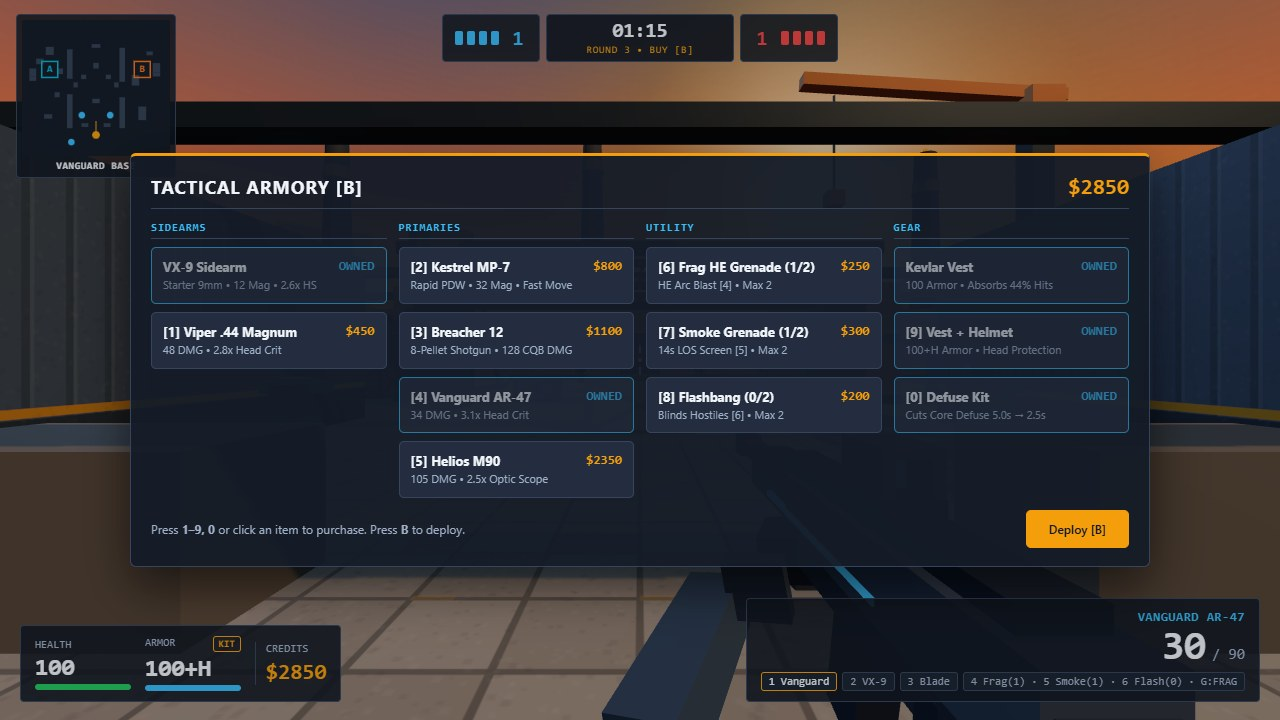
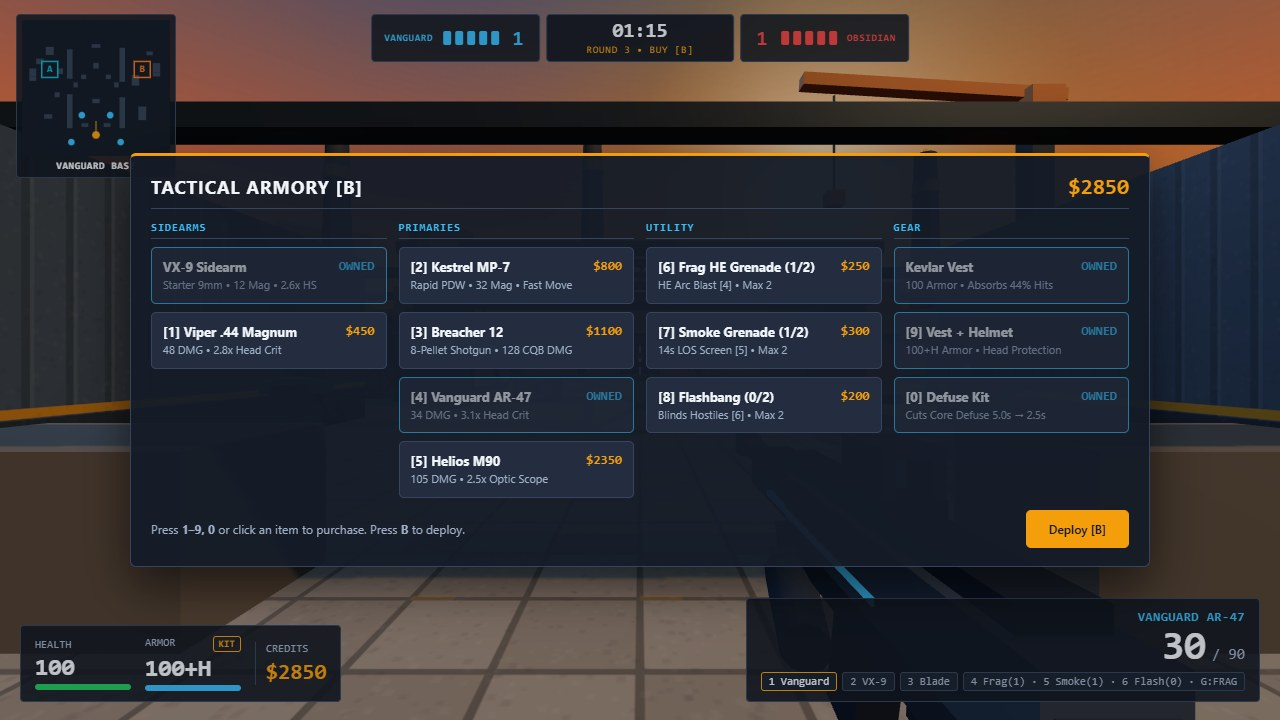
Upgrade v4: 5v5 roster, sprite smoke, tapered operators & viewmodel polish

diff --git a/game/src/weapons.js b/game/src/weapons.js
@@ -23,8 +23,8 @@ export function createWeaponRig(camera) {
     dark: new THREE.MeshStandardMaterial({ color: new THREE.Color('#2d3748'), roughness: 0.42, metalness: 0.58 }),
     gun: new THREE.MeshStandardMaterial({ color: new THREE.Color('#64748b'), roughness: 0.32, metalness: 0.65 }),
     poly: new THREE.MeshStandardMaterial({ color: new THREE.Color('#1e2633'), roughness: 0.72, metalness: 0.16 }),
-    sleeve: new THREE.MeshStandardMaterial({ color: new THREE.Color('#293f56'), roughness: 0.76, metalness: 0.08 }),
-    glove: new THREE.MeshStandardMaterial({ color: new THREE.Color('#1a202c'), roughness: 0.64, metalness: 0.14 }),
+    sleeve: new THREE.MeshStandardMaterial({ color: new THREE.Color('#1f2f42'), roughness: 0.92, metalness: 0.02 }),
+    glove: new THREE.MeshStandardMaterial({ color: new THREE.Color('#141923'), roughness: 0.78, metalness: 0.08 }),
     knuckle: new THREE.MeshStandardMaterial({ color: new THREE.Color('#3a4759'), roughness: 0.48, metalness: 0.32 }),
     cyan: new THREE.MeshBasicMaterial({ color: new THREE.Color(PALETTE.vanguard) }),
     amber: new THREE.MeshBasicMaterial({ color: new THREE.Color(PALETTE.accent) }),
@@ -49,19 +49,26 @@ export function createWeaponRig(camera) {
   }
 
   const rightArm = addParts(new THREE.Group(), [
-    [0.068, 0.072, 0.072, 0, 0, 0, 'glove'],
-    [0.072, 0.022, 0.042, 0, 0.032, -0.008, 'knuckle'],
-    [0.024, 0.036, 0.048, -0.038, 0.018, -0.015, 'glove'],
-    [0.078, 0.076, 0.24, 0.02, -0.045, 0.14, 'sleeve'],
-    [0.082, 0.08, 0.028, 0.012, -0.02, 0.045, 'knuckle'],
+    [0.056, 0.058, 0.062, 0, 0, 0, 'glove'],
+    [0.058, 0.018, 0.036, 0, 0.026, -0.008, 'knuckle'],
+    [0.02, 0.03, 0.042, -0.032, 0.014, -0.012, 'glove'],
+    [0.06, 0.058, 0.022, 0.008, -0.014, 0.038, 'knuckle'],
   ]);
+  const rightSleeve = new THREE.Mesh(new THREE.CylinderGeometry(0.028, 0.034, 0.18, 10), m.sleeve);
+  rightSleeve.rotation.x = Math.PI * 0.5;
+  rightSleeve.position.set(0.012, -0.022, 0.12);
+  rightArm.add(rightSleeve);
+
   const leftArm = addParts(new THREE.Group(), [
-    [0.066, 0.064, 0.074, 0, 0, 0, 'glove'],
-    [0.07, 0.018, 0.04, 0, -0.024, -0.01, 'knuckle'],
-    [0.024, 0.034, 0.046, 0.038, 0.016, -0.014, 'glove'],
-    [0.078, 0.076, 0.28, -0.11, -0.07, 0.15, 'sleeve'],
-    [0.082, 0.08, 0.028, -0.04, -0.03, 0.05, 'knuckle'],
+    [0.054, 0.052, 0.062, 0, 0, 0, 'glove'],
+    [0.056, 0.016, 0.034, 0, -0.02, -0.008, 'knuckle'],
+    [0.02, 0.028, 0.04, 0.032, 0.012, -0.012, 'glove'],
+    [0.058, 0.056, 0.022, -0.012, -0.014, 0.038, 'knuckle'],
   ]);
+  const leftSleeve = new THREE.Mesh(new THREE.CylinderGeometry(0.027, 0.033, 0.16, 10), m.sleeve);
+  leftSleeve.rotation.x = Math.PI * 0.5;
+  leftSleeve.position.set(-0.018, -0.02, 0.11);
+  leftArm.add(leftSleeve);
   rig.add(rightArm, leftArm);
 
   const models = {
@@ -184,8 +191,8 @@ export function createWeaponRig(camera) {
   flash.visible = false;
   rig.add(flash);
 
-  const flashLight = new THREE.PointLight(new THREE.Color(PALETTE.accent), 0, 5.5);
-  flashLight.position.set(0.24, -0.16, -0.68);
+  const flashLight = new THREE.PointLight(new THREE.Color('#ffdf9e'), 0, 6.0);
+  flashLight.position.set(0.24, -0.14, -1.25);
   camera.add(flashLight);
 
   const muzzleTip = new THREE.Object3D();
@@ -210,15 +217,15 @@ export function createWeaponRig(camera) {
     flash.position.set(0, 0.025, zTip);
     muzzleTip.position.set(0, 0.025, zTip);
     if (id === 'pistol' || id === 'deagle') {
-      rightArm.position.set(0.01, -0.07, 0.07); rightArm.rotation.set(0.14, 0.08, 0);
-      leftArm.position.set(-0.04, -0.09, 0.06); leftArm.rotation.set(0.18, -0.32, 0.25);
+      rightArm.position.set(0.008, -0.068, 0.065); rightArm.rotation.set(0.1, 0.04, 0);
+      leftArm.position.set(-0.022, -0.082, 0.055); leftArm.rotation.set(0.12, -0.18, 0.16);
       leftArm.visible = true;
     } else if (id === 'knife') {
-      rightArm.position.set(0.01, -0.06, 0.07); rightArm.rotation.set(0.24, 0.16, -0.3);
+      rightArm.position.set(0.01, -0.06, 0.07); rightArm.rotation.set(0.2, 0.12, -0.26);
       leftArm.visible = false;
     } else {
-      rightArm.position.set(0.015, -0.065, 0.12); rightArm.rotation.set(0.12, 0.08, 0);
-      leftArm.position.set(-0.032, -0.055, id === 'smg' ? -0.14 : -0.23); leftArm.rotation.set(0.1, -0.42, 0.2);
+      rightArm.position.set(0.01, -0.068, 0.1); rightArm.rotation.set(0.08, 0.04, 0);
+      leftArm.position.set(-0.018, -0.052, id === 'smg' ? -0.14 : -0.23); leftArm.rotation.set(0.06, -0.2, 0.12);
       leftArm.visible = true;
     }
   }
@@ -321,7 +328,7 @@ export function createWeaponRig(camera) {
       flash.scale.setScalar(0.68 + fRatio * 0.34);
       flashMat.opacity = 0.88 * fRatio;
     }
-    flashLight.intensity = flash.visible ? 11 : 0;
+    flashLight.intensity = flash.visible ? 4.2 : 0;
 
     const targetFov = 74 + (spec.adsFov - 74) * state.adsBlend;
     if (Math.abs(camera.fov - targetFov) > 0.05) {

diff --git a/game/src/bots.js b/game/src/bots.js
@@ -41,17 +41,19 @@ export function createBots(scene, world, random) {
   const geo = {
     torso: new THREE.BoxGeometry(0.46, 0.68, 0.28),
     plate: new THREE.BoxGeometry(0.5, 0.44, 0.33),
+    pouch: new THREE.BoxGeometry(0.34, 0.14, 0.06),
     pauldron: new THREE.BoxGeometry(0.18, 0.16, 0.24),
     pack: new THREE.BoxGeometry(0.28, 0.4, 0.14),
     antenna: new THREE.CylinderGeometry(0.012, 0.012, 0.34, 6),
     head: new THREE.SphereGeometry(0.155, 14, 10),
     helmet: new THREE.BoxGeometry(0.32, 0.13, 0.34),
     visor: new THREE.BoxGeometry(0.27, 0.085, 0.14),
-    arm: new THREE.BoxGeometry(0.135, 0.52, 0.145),
-    leg: new THREE.BoxGeometry(0.17, 0.66, 0.19),
+    arm: new THREE.CylinderGeometry(0.062, 0.052, 0.52, 10),
+    leg: new THREE.CylinderGeometry(0.085, 0.068, 0.66, 10),
     knee: new THREE.BoxGeometry(0.185, 0.14, 0.21),
     gunBody: new THREE.BoxGeometry(0.075, 0.095, 0.48),
-    gunBarrel: new THREE.BoxGeometry(0.036, 0.036, 0.32),
+    gunStock: new THREE.BoxGeometry(0.06, 0.08, 0.18),
+    gunBarrel: new THREE.CylinderGeometry(0.018, 0.018, 0.36, 8),
     gunMag: new THREE.BoxGeometry(0.044, 0.13, 0.06),
     flash: new THREE.SphereGeometry(0.075, 6, 6),
   };
@@ -66,14 +68,14 @@ export function createBots(scene, world, random) {
       plate: new THREE.MeshStandardMaterial({ color: new THREE.Color('#1d354d'), roughness: 0.56, metalness: 0.28 }),
       limb: new THREE.MeshStandardMaterial({ color: new THREE.Color('#1a2433'), roughness: 0.75 }),
       visor: new THREE.MeshBasicMaterial({ color: new THREE.Color(PALETTE.vanguard) }),
-      names: ['Kestrel', 'Nova', 'Aegis'],
+      names: ['Kestrel', 'Nova', 'Aegis', 'Valkyrie'],
     },
     obsidian: {
       armor: new THREE.MeshStandardMaterial({ color: new THREE.Color(PALETTE.obsidianArmor), roughness: 0.48, metalness: 0.35 }),
       plate: new THREE.MeshStandardMaterial({ color: new THREE.Color('#2d1b1e'), roughness: 0.56, metalness: 0.28 }),
       limb: new THREE.MeshStandardMaterial({ color: new THREE.Color('#1e1a1e'), roughness: 0.75 }),
       visor: new THREE.MeshBasicMaterial({ color: new THREE.Color(PALETTE.obsidian) }),
-      names: ['Viper', 'Cipher', 'Dusk', 'Talon'],
+      names: ['Viper', 'Cipher', 'Dusk', 'Talon', 'Nyx'],
     },
   };
 
@@ -99,6 +101,7 @@ export function createBots(scene, world, random) {
 
     const torso = makeMesh(geo.torso, armorMat, 0, 1.02, 0);
     const plate = makeMesh(geo.plate, s.plate, 0, 1.07, 0);
+    const pouch = makeMesh(geo.pouch, s.plate, 0, 0.98, -0.18);
     const pauldronL = makeMesh(geo.pauldron, armorMat, -0.33, 1.24, 0);
     const pauldronR = makeMesh(geo.pauldron, armorMat, 0.33, 1.24, 0);
     const pack = makeMesh(geo.pack, s.plate, 0, 1.08, 0.19);
@@ -110,7 +113,8 @@ export function createBots(scene, world, random) {
     gun.position.set(0.24, 1.07, -0.34);
     gun.add(
       makeMesh(geo.gunBody, sharedMats.gun, 0, 0, 0),
-      makeMesh(geo.gunBarrel, sharedMats.barrel, 0, 0.015, -0.36),
+      makeMesh(geo.gunStock, sharedMats.gun, 0, -0.01, 0.24),
+      makeMesh(geo.gunBarrel, sharedMats.barrel, 0, 0.015, -0.36, Math.PI * 0.5),
       makeMesh(geo.gunMag, sharedMats.gun, 0, -0.09, -0.06),
     );
     const muzzle = makeMesh(geo.flash, sharedMats.flash, 0.24, 1.09, -0.84);
@@ -120,7 +124,7 @@ export function createBots(scene, world, random) {
     const helmet = makeMesh(geo.helmet, s.plate, 0, 1.61, 0.01);
     const visor = makeMesh(geo.visor, s.visor, 0, 1.54, -0.11);
 
-    upper.add(torso, plate, pauldronL, pauldronR, pack, antenna, armL, armR, gun, muzzle, head, helmet, visor);
+    upper.add(torso, plate, pouch, pauldronL, pauldronR, pack, antenna, armL, armR, gun, muzzle, head, helmet, visor);
     group.add(legL, legR, upper);
     group.traverse((m) => { if (m.isMesh) { m.castShadow = true; m.receiveShadow = true; } });
     scene.add(group);
@@ -138,7 +142,7 @@ export function createBots(scene, world, random) {
 
     for (const [m, part] of [
       [head, 'head'], [helmet, 'head'], [visor, 'head'],
-      [torso, 'torso'], [plate, 'torso'], [pauldronL, 'torso'], [pauldronR, 'torso'],
+      [torso, 'torso'], [plate, 'torso'], [pouch, 'torso'], [pauldronL, 'torso'], [pauldronR, 'torso'],
       [armL, 'limb'], [armR, 'limb'], [legL, 'limb'], [legR, 'limb'],
     ]) {
       m.userData = { bot, part };
@@ -148,8 +152,8 @@ export function createBots(scene, world, random) {
     return bot;
   }
 
-  for (let i = 0; i < 3; i += 1) buildBot('vanguard', i + 1, styles.vanguard.names[i]);
-  for (let i = 0; i < 4; i += 1) buildBot('obsidian', i, styles.obsidian.names[i]);
+  for (let i = 0; i < 4; i += 1) buildBot('vanguard', i + 1, styles.vanguard.names[i]);
+  for (let i = 0; i < 5; i += 1) buildBot('obsidian', i, styles.obsidian.names[i]);
 
   function applyPose(bot) {
     const c = bot.crouch;

diff --git a/game/index.html b/game/index.html
@@ -102,14 +102,14 @@ html,body{margin:0;height:100%;overflow:hidden;background:var(--canvas);color:va
 .buy-foot{display:flex;justify-content:space-between;align-items:center;margin-top:12px;font-size:12px;color:var(--muted)}
 .panel{width:min(560px,100%);padding:24px 26px;background:rgba(18,25,36,.93);border:1px solid var(--hairline);border-left:4px solid var(--vanguard);border-radius:6px;box-shadow:0 22px 54px rgba(0,0,0,.58)}
 #overlay.start-mode .panel{width:min(448px,100%)}
-#overlay.end-mode .panel{width:min(820px,95vw);padding:20px 24px}
+#overlay.end-mode .panel{width:min(820px,95vw);padding:14px 22px}
 .panel-tag{font-family:var(--font-mono);font-size:11px;color:var(--vanguard);letter-spacing:.12em;text-transform:uppercase;margin-bottom:6px}
 .panel h1{margin:0 0 8px;font-size:30px;line-height:1.1;letter-spacing:-.02em}
 .panel p{margin:0 0 14px;font-size:13px;line-height:1.45;color:var(--muted)}
 #mvp-banner{padding:7px 12px;margin-bottom:10px;background:rgba(245,158,11,.14);border:1px solid var(--accent);border-radius:4px;font-family:var(--font-mono);font-size:12px;font-weight:700;color:var(--gold);letter-spacing:.04em}
 #scoreboard{margin-bottom:12px;border:1px solid var(--hairline);border-radius:4px;overflow:hidden}
 #scoreboard table{width:100%;border-collapse:collapse;font-family:var(--font-mono);font-size:12px}
-#scoreboard th,#scoreboard td{padding:5px 9px;text-align:right;border-bottom:1px solid rgba(54,69,94,.45)}
+#scoreboard th,#scoreboard td{padding:3px 9px;text-align:right;border-bottom:1px solid rgba(54,69,94,.45);font-size:11.5px}
 #scoreboard th:first-child,#scoreboard td:first-child{text-align:left}
 #scoreboard thead th{background:var(--surface);color:var(--muted);font-size:11px;text-transform:uppercase}
 #scoreboard .sb-team th{background:rgba(24,33,47,.95);font-size:11px;letter-spacing:.06em;padding:4px 9px}
@@ -117,7 +117,7 @@ html,body{margin:0;height:100%;overflow:hidden;background:var(--canvas);color:va
 #scoreboard .sb-team.obs th{color:var(--obsidian)}
 #scoreboard .sb-you{background:rgba(56,189,248,.12);font-weight:700}
 #scoreboard .sb-you .sb-name{color:var(--gold)}
-#round-strip{display:flex;gap:5px;margin-bottom:14px;flex-wrap:wrap}
+#round-strip{display:flex;gap:5px;margin-bottom:10px;flex-wrap:wrap}
 .rnd-pill{flex:1 1 56px;padding:4px 6px;background:var(--panel);border:1px solid var(--hairline);border-radius:4px;font-family:var(--font-mono);font-size:11px;text-align:center}
 .rnd-pill.van{border-bottom:2px solid var(--vanguard);color:var(--vanguard)}
 .rnd-pill.obs{border-bottom:2px solid var(--obsidian);color:var(--obsidian)}
@@ -140,12 +140,13 @@ html,body{margin:0;height:100%;overflow:hidden;background:var(--canvas);color:va
   <div class="ally-tag" id="ally-0" hidden></div>
   <div class="ally-tag" id="ally-1" hidden></div>
   <div class="ally-tag" id="ally-2" hidden></div>
+  <div class="ally-tag" id="ally-3" hidden></div>
   <div id="radar-wrap"><canvas id="radar" width="148" height="136"></canvas><div id="radar-label">VANGUARD BASE</div></div>
   <div id="radio-feed"></div>
   <div id="topbar">
-    <div class="team-box"><div class="pips" id="pips-van"></div><div class="team-score vanguard-text" id="score-van">0</div></div>
+    <div class="team-box"><span class="vanguard-text" style="font-size:10px;font-weight:700;letter-spacing:.06em">VANGUARD</span><div class="pips" id="pips-van"></div><div class="team-score vanguard-text" id="score-van">0</div></div>
     <div id="timer-box"><div id="round-timer">01:15</div><div id="round-phase">ROUND 1 • BREACH A / B</div></div>
-    <div class="team-box"><div class="team-score obsidian-text" id="score-obs">0</div><div class="pips" id="pips-obs"></div></div>
+    <div class="team-box"><div class="team-score obsidian-text" id="score-obs">0</div><div class="pips" id="pips-obs"></div><span class="obsidian-text" style="font-size:10px;font-weight:700;letter-spacing:.06em">OBSIDIAN</span></div>
   </div>
   <div id="killfeed"></div>
   <div id="banner" hidden></div>
@@ -170,7 +171,7 @@ html,body{margin:0;height:100%;overflow:hidden;background:var(--canvas);color:va
 </div>
 <div id="overlay" class="modal-bg start-mode">
   <section class="panel" role="dialog" aria-modal="true" aria-labelledby="overlay-title">
-    <div class="panel-tag" id="overlay-tag">4v4 Tactical Arena • Solstice Foundry</div>
+    <div class="panel-tag" id="overlay-tag">5v5 Tactical Arena • Solstice Foundry</div>
     <h1 id="overlay-title">Vanguard Breach</h1>
     <p id="overlay-copy">Lead Vanguard Strike against Obsidian Wardens across Reactor Bay (A), Mid Archway, and Container Dock (B). First to 5 rounds wins.</p>
     <div id="mvp-banner" hidden></div>

diff --git a/game/src/main.js b/game/src/main.js
@@ -410,7 +410,7 @@ function handleBombAction(dt) {
 function syncAllyTags() {
   const show = !overviewCam && match.phase !== 'start' && match.phase !== 'matchEnd';
   const w = window.innerWidth, h = window.innerHeight;
-  for (let i = 0; i < 3; i += 1) {
+  for (let i = 0; i < 4; i += 1) {
     const bot = bots.bots[i];
     if (!show || !bot || !bot.alive) { hud.setAllyTag(i, false); continue; }
     _projVec.set(bot.pos.x, bot.pos.y + 1.98 - 0.36 * bot.crouch, bot.pos.z).project(camera);
@@ -587,15 +587,15 @@ function runShot(name) {
     hud.setHudVisible(true); weapon.setVisible(true); weapon.giveWeapon('rifle');
     weapon.state.utility = { frag: 1, smoke: 0, flash: 1 };
     player.spawnAt(new THREE.Vector3(-16.0, 0, 3.6), 0);
-    placeBot(0, -13.8, -0.4, false, 0.22); placeBot(1, -10.4, -1.2);
-    placeBot(3, -14.2, -4.6); placeBot(4, -12.6, -7.8, true); placeBot(5, -16.8, -6.4);
-    world.spawnSmokeScreen(_shotA.set(-10.8, 0.1, -2.6), 3.25, 14.0);
+    placeBot(0, -13.8, -0.4, false, 0.22); placeBot(1, -10.4, -1.2); placeBot(2, -18.2, 0.4); placeBot(3, -12.0, 2.2);
+    placeBot(4, -14.2, -4.6); placeBot(5, -12.6, -7.8, true); placeBot(6, -16.8, -6.4);
+    world.spawnSmokeScreen(_shotA.set(-9.8, 0.1, -9.2), 2.5, 14.0);
     settle(24);
-    aimAt(_shotA.set(bots.bots[3].pos.x, 1.54, bots.bots[3].pos.z));
+    aimAt(_shotA.set(bots.bots[4].pos.x, 1.54, bots.bots[4].pos.z));
     shoot(true);
     tracer(-13.6, 1.15, -0.6, -12.6, 1.05, -7.8, PALETTE.vanguard);
     tracer(-16.8, 1.15, -6.4, -14.1, 1.25, -0.4, PALETTE.obsidian);
-    hud.pushRadio('Kestrel', 'Contact at Reactor Bay, smoke deployed!', 0);
+    hud.pushRadio('Kestrel', 'Contact at Reactor Bay A — pushing crossfire!', 0);
     settle(1);
   } else if (name === 'play') {
     match.phase = 'live'; match.round = 4; match.vanScore = 2; match.obsScore = 1; match.credits = 1950;
@@ -604,8 +604,9 @@ function runShot(name) {
     hud.setHudVisible(true); weapon.setVisible(true); weapon.giveWeapon('shotgun');
     weapon.state.utility = { frag: 1, smoke: 0, flash: 1 };
     player.spawnAt(new THREE.Vector3(15.3, 0, -3.7), 0);
-    placeBot(1, 17.2, -7.6, true); placeBot(4, 15.8, -14.0); placeBot(5, 12.6, -12.4);
-    world.spawnSmokeScreen(_shotA.set(11.6, 0.1, -6.2), 3.1, 14.0);
+    placeBot(1, 17.2, -7.6, true); placeBot(2, 12.2, -5.8);
+    placeBot(4, 15.8, -14.0); placeBot(5, 12.6, -12.4); placeBot(6, 18.4, -12.8, true);
+    world.spawnSmokeScreen(_shotA.set(9.6, 0.1, -11.4), 2.4, 14.0);
     settle(24);
     aimAt(_shotA.set(14.7, 0.92, -7.4));
     tracer(17.1, 0.85, -7.7, 15.8, 1.32, -14.0, PALETTE.vanguard);
@@ -626,9 +627,9 @@ function runShot(name) {
     match.phase = 'matchEnd'; match.vanScore = 5; match.obsScore = 2;
     const preset = [
       [14, 3, 3, 28, 16, 2140, 3, 3450], [9, 5, 4, 24, 9, 1460, 1, 2900],
-      [7, 4, 4, 19, 6, 1180, 1, 2650], [6, 6, 5, 16, 4, 980, 0, 2200],
+      [7, 4, 4, 19, 6, 1180, 1, 2650], [6, 6, 5, 16, 4, 980, 0, 2200], [5, 5, 5, 14, 4, 860, 0, 2050],
       [8, 2, 7, 22, 7, 1310, 1, 2450], [6, 3, 7, 18, 5, 1020, 1, 2100],
-      [4, 4, 7, 14, 3, 790, 0, 1850], [3, 2, 8, 11, 2, 620, 0, 1650],
+      [5, 3, 7, 15, 4, 890, 0, 1950], [4, 4, 7, 14, 3, 790, 0, 1850], [3, 2, 8, 11, 2, 620, 0, 1650],
     ];
     for (let i = 0; i < roster.length; i += 1) {
       const [kills, assists, deaths, hits, headshots, damage, mvp, credits] = preset[i];
@@ -641,7 +642,7 @@ function runShot(name) {
     hud.setHudVisible(false); world.setBombPlanted('B');
     overviewCam = { pos: new THREE.Vector3(14.5, 4.4, 6.2), look: new THREE.Vector3(14.8, 1.4, -6.5) };
     weapon.setVisible(false);
-    placeBot(0, 10.6, -1.2); placeBot(1, 18.6, -1.6); placeBot(3, 15.2, -8.2);
+    placeBot(0, 10.6, -1.2); placeBot(1, 18.6, -1.6); placeBot(4, 15.2, -8.2);
     settle(6);
     hud.showOverlay('end', buildMatchStats());
   }

diff --git a/game/src/hud.js b/game/src/hud.js
@@ -47,7 +47,7 @@ export function createHud() {
     hud: $('hud'), crosshair: $('crosshair'), scope: $('scope-overlay'), hitmarker: $('hitmarker'),
     vignette: $('damage-vignette'), flashBang: $('flash-overlay'), radar: $('radar'),
     radarLabel: $('radar-label'), radioFeed: $('radio-feed'),
-    allyTags: [$('ally-0'), $('ally-1'), $('ally-2')],
+    allyTags: [$('ally-0'), $('ally-1'), $('ally-2'), $('ally-3')],
     scoreVan: $('score-van'), scoreObs: $('score-obs'), pipsVan: $('pips-van'), pipsObs: $('pips-obs'),
     timer: $('round-timer'), phase: $('round-phase'), killfeed: $('killfeed'), banner: $('banner'),
     actionWrap: $('action-wrap'), actionText: $('action-text'), actionFill: $('action-bar-fill'),
@@ -192,8 +192,8 @@ export function createHud() {
       if (changed('sec', sec)) el.timer.textContent = `${String(Math.floor(sec / 60)).padStart(2, '0')}:${String(sec % 60).padStart(2, '0')}`;
       if (changed('arm', Boolean(armed))) el.timer.classList.toggle('armed', Boolean(armed));
       if (changed('ph', phaseLabel)) el.phase.textContent = phaseLabel;
-      if (changed('va', vanAlive)) el.pipsVan.innerHTML = [0, 1, 2, 3].map((i) => `<span class="pip van ${i < vanAlive ? 'on' : ''}"></span>`).join('');
-      if (changed('oa', obsAlive)) el.pipsObs.innerHTML = [0, 1, 2, 3].map((i) => `<span class="pip obs ${i < obsAlive ? 'on' : ''}"></span>`).join('');
+      if (changed('va', vanAlive)) el.pipsVan.innerHTML = [0, 1, 2, 3, 4].map((i) => `<span class="pip van ${i < vanAlive ? 'on' : ''}"></span>`).join('');
+      if (changed('oa', obsAlive)) el.pipsObs.innerHTML = [0, 1, 2, 3, 4].map((i) => `<span class="pip obs ${i < obsAlive ? 'on' : ''}"></span>`).join('');
     },
     setActionPrompt(text, progress01) {
       if (!text) { el.actionWrap.hidden = true; return; }
@@ -278,7 +278,7 @@ export function createHud() {
       el.overlay.classList.toggle('end-mode', mode === 'end');
       el.keysList.hidden = mode === 'end';
       if (mode === 'start') {
-        el.overlayTag.textContent = '4v4 Tactical Arena • Solstice Foundry';
+        el.overlayTag.textContent = '5v5 Tactical Arena • Solstice Foundry';
         el.overlayTitle.textContent = 'Vanguard Breach';
         el.overlayCopy.textContent = 'Lead Vanguard Strike against Obsidian Wardens across Reactor Bay (A), Mid Archway, and Container Dock (B). First to 5 rounds wins.';
         el.mvpBanner.hidden = true; el.scoreboard.hidden = true; el.roundStrip.hidden = true;

diff --git a/game/src/world.js b/game/src/world.js
@@ -45,14 +45,30 @@ export function createWorld(scene) {
     () => ({ vel: new THREE.Vector3(), baseScale: 1 }),
   );
 
-  const screenPuffGeom = new THREE.SphereGeometry(0.95, 10, 8);
+  const sCan = document.createElement('canvas');
+  sCan.width = 64; sCan.height = 64;
+  const sCtx = sCan.getContext('2d');
+  const sGrad = sCtx.createRadialGradient(32, 32, 2, 32, 32, 31);
+  sGrad.addColorStop(0, 'rgba(222,232,244,0.52)');
+  sGrad.addColorStop(0.5, 'rgba(196,210,226,0.22)');
+  sGrad.addColorStop(1, 'rgba(180,194,212,0)');
+  sCtx.fillStyle = sGrad; sCtx.fillRect(0, 0, 64, 64);
+  const smokeTex = new THREE.CanvasTexture(sCan);
+
   const smokeScreens = [];
   for (let s = 0; s < SCREENS; s += 1) {
-    const puffs = makePool(
-      PUFFS, screenPuffGeom,
-      (p) => new THREE.MeshLambertMaterial({ color: new THREE.Color(p % 3 === 0 ? '#bac5d4' : p % 3 === 1 ? PALETTE.smoke : '#dce4ee'), transparent: true, opacity: 0, depthWrite: false }),
-      (p) => ({ offset: new THREE.Vector3(), phase: p * 0.85 + s, baseScale: 1 }),
-    );
+    const puffs = [];
+    for (let p = 0; p < PUFFS; p += 1) {
+      const mat = new THREE.SpriteMaterial({
+        map: smokeTex,
+        color: new THREE.Color(p % 3 === 0 ? '#bac5d4' : p % 3 === 1 ? PALETTE.smoke : '#dce4ee'),
+        transparent: true, opacity: 0, depthWrite: false,
+      });
+      const mesh = new THREE.Sprite(mat);
+      mesh.visible = false;
+      scene.add(mesh);
+      puffs.push({ mesh, mat, offset: new THREE.Vector3(), phase: p * 0.85 + s, baseScale: 1 });
+    }
     smokeScreens.push({ active: false, center: new THREE.Vector3(), radius: 3.25, life: 0, maxLife: 14, puffs });
   }
 
@@ -185,7 +201,7 @@ export function createWorld(scene) {
         continue;
       }
       const grow = Math.min(1, (s.maxLife - s.life) / 0.55);
-      const alpha = 0.68 * grow * (s.life < 2.2 ? s.life / 2.2 : 1);
+      const alpha = 0.34 * grow * (s.life < 2.2 ? s.life / 2.2 : 1);
       for (let j = 0; j < PUFFS; j += 1) {
         const pf = s.puffs[j];
         pf.mesh.position.set(
@@ -193,7 +209,7 @@ export function createWorld(scene) {
           s.center.y + pf.offset.y + Math.cos(time * 0.7 + pf.phase) * 0.1,
           s.center.z + pf.offset.z,
         );
-        pf.mesh.scale.setScalar(pf.baseScale * (0.45 + 0.58 * grow));
+        pf.mesh.scale.setScalar(pf.baseScale * (1.85 + 0.85 * grow));
         pf.mat.opacity = alpha;
       }
     }

diff --git a/game/src/map.js b/game/src/map.js
@@ -27,8 +27,8 @@ export function getZoneName(x, z) {
 
 const v3 = (x, z) => new THREE.Vector3(x, 0, z);
 export const TEAM_SPAWNS = {
-  vanguard: [v3(0, 18.2), v3(-4.2, 18.6), v3(4.2, 18.6), v3(-8, 17.5)],
-  obsidian: [v3(0, -18.2), v3(-4.2, -18.6), v3(4.2, -18.6), v3(8.5, -17.5)],
+  vanguard: [v3(0, 18.2), v3(-4.2, 18.6), v3(4.2, 18.6), v3(-8, 17.5), v3(8, 17.5)],
+  obsidian: [v3(0, -18.2), v3(-4.2, -18.6), v3(4.2, -18.6), v3(8.5, -17.5), v3(-8.5, -17.5)],
 };
 
 export const WAYPOINTS = [
@@ -119,6 +119,8 @@ export function createFoundryMap(scene) {
   for (const [texMap, x, y, z, ry, w, h] of [
     [tex.signA, -9.46, 2.55, -6.2, -Math.PI * 0.5, 2.6, 1.3],
     [tex.signA, -15, 3.2, -21.93, 0, 3, 1.5],
+    [tex.signA, -15, 2.95, -10.65, 0, 2.4, 1.05],
+    [tex.signA, -23.94, 2.8, -5.0, Math.PI * 0.5, 3.0, 1.35],
     [tex.signB, 9.46, 2.55, -6.2, Math.PI * 0.5, 2.6, 1.3],
     [tex.signB, 15, 3.2, -21.93, 0, 3, 1.5],
     [tex.signMid, 0, 4.3, 0.15, 0, 2.8, 1.15],
